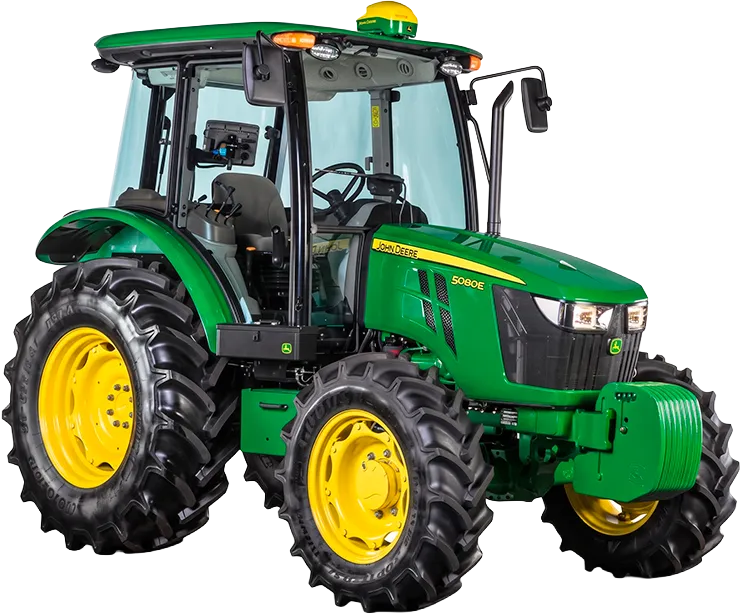
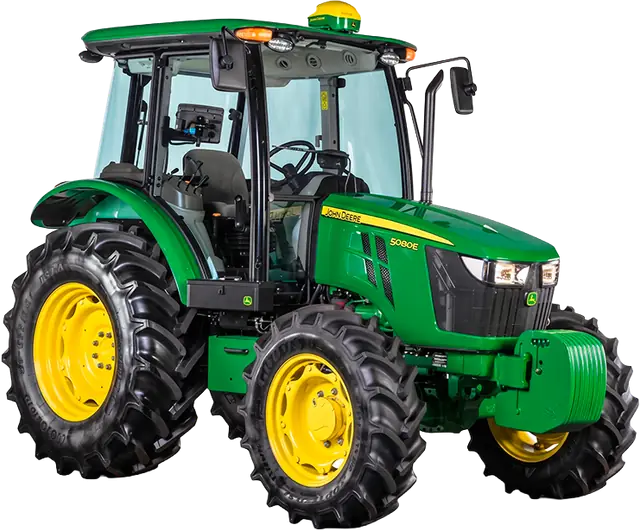
perf(landing-do-circuito): imagens menores, com srcset por tamanho de tela
As fotos dos palestrantes saem em duas alturas (500 e 900 px, antes 1400)
e o rosto esmaecido usa sempre a pequena. O trator cai para 640 px e o
pasto da abertura ganha versões próprias de 800 e 1400 px, mais leves que
as da landing dos 45 anos. A página baixa ~395 KB de imagem, contra
~800-950 KB antes.

diff --git a/lib/palestras/conteudo-da-landing.ts b/lib/palestras/conteudo-da-landing.ts
@@ -7,13 +7,19 @@
    ficam aqui: vêm do banco, por `listarPalestrasAtivas()`.
    ========================================================= */
 
+export type VersaoDaImagem = { src: string; largura: number; altura: number };
+
 export type Palestrante = {
   id: string;
   nome: string;
   sobrenome: string;
   credenciais: string[];
   tema: string;
-  foto: { src: string; largura: number; altura: number; alt: string };
+  /**
+   * Duas alturas, geradas por `scripts/otimizar-imagens-da-landing.mjs`:
+   * a pequena serve o celular e o rosto esmaecido; a grande, o desktop.
+   */
+  foto: { alt: string; pequena: VersaoDaImagem; grande: VersaoDaImagem };
 };
 
 export const PALESTRANTES: Palestrante[] = [
@@ -24,10 +30,9 @@ export const PALESTRANTES: Palestrante[] = [
     credenciais: ['Zootecnista', 'TRI Comunicação'],
     tema: 'Desafios do Agro Moderno: você está preparado?',
     foto: {
-      src: '/assets/img/palestrantes/ricardo-arantes.webp',
-      largura: 1179,
-      altura: 1400,
       alt: 'Ricardo Arantes, de chapéu e camisa azul-marinho',
+      pequena: { src: '/assets/img/palestrantes/ricardo-arantes-500.webp', largura: 421, altura: 500 },
+      grande: { src: '/assets/img/palestrantes/ricardo-arantes-900.webp', largura: 758, altura: 900 },
     },
   },
   {
@@ -41,10 +46,9 @@ export const PALESTRANTES: Palestrante[] = [
     ],
     tema: 'Controle sanitário na reprodução: estratégias para otimizar a rentabilidade na cria',
     foto: {
-      src: '/assets/img/palestrantes/giovani-pastre.webp',
-      largura: 1387,
-      altura: 1400,
       alt: 'Giovani Pastre, de óculos e jaqueta escura',
+      pequena: { src: '/assets/img/palestrantes/giovani-pastre-500.webp', largura: 495, altura: 500 },
+      grande: { src: '/assets/img/palestrantes/giovani-pastre-900.webp', largura: 891, altura: 900 },
     },
   },
 ];
@@ -55,8 +59,8 @@ export const PROMOCAO = {
   premio: 'John Deere 5080E.',
   trator: {
     src: '/assets/img/trator-5080e.webp',
-    largura: 741,
-    altura: 614,
+    largura: 640,
+    altura: 530,
     alt: 'Trator John Deere 5080E, verde com rodas amarelas',
   },
   bordao: ['Acelere conhecimento.', 'Acelere resultados. Acelere no Campo.'],

diff --git a/components/palestras/landing/palestrantes.tsx b/components/palestras/landing/palestrantes.tsx
@@ -39,23 +39,31 @@ function LajeDoPalestrante({
     >
       <div className={cn(estilo.miolo, estilo.palestranteGrade)}>
         <div className={estilo.foto}>
-          {/* Mesma imagem, ampliada e esmaecida: decorativa (D3). */}
+          {/*
+            Mesma imagem, ampliada e esmaecida: decorativa (D3). Sempre a
+            versão pequena: a 45% de opacidade, a nitidez não aparece, e o
+            navegador reaproveita o download da foto do celular.
+          */}
           <img
             className={estilo.fantasma}
-            src={p.foto.src}
+            src={p.foto.pequena.src}
             alt=""
             aria-hidden="true"
-            width={p.foto.largura}
-            height={p.foto.altura}
+            width={p.foto.pequena.largura}
+            height={p.foto.pequena.altura}
             loading="lazy"
             decoding="async"
           />
           <img
             className={estilo.recorte}
-            src={p.foto.src}
+            src={p.foto.grande.src}
+            srcSet={`${p.foto.pequena.src} ${p.foto.pequena.largura}w, ${p.foto.grande.src} ${p.foto.grande.largura}w`}
+            // Celular: 420 px de altura. Desktop: ~690 px de altura. A
+            // largura vem da proporção de cada foto.
+            sizes={`(min-width: 900px) ${Math.round((690 * p.foto.grande.largura) / p.foto.grande.altura)}px, ${Math.round((420 * p.foto.grande.largura) / p.foto.grande.altura)}px`}
             alt={p.foto.alt}
-            width={p.foto.largura}
-            height={p.foto.altura}
+            width={p.foto.grande.largura}
+            height={p.foto.grande.altura}
             loading="lazy"
             decoding="async"
           />

diff --git a/components/palestras/landing/abertura.tsx b/components/palestras/landing/abertura.tsx
@@ -14,12 +14,12 @@ export function Abertura({ cidades }: { cidades: number }) {
     <header className={estilo.abertura}>
       <div className={estilo.pasto} aria-hidden="true">
         <img
-          src="/assets/img/pasto-1600.webp"
-          srcSet="/assets/img/pasto-900.webp 900w, /assets/img/pasto-1600.webp 1600w, /assets/img/pasto-2400.webp 2400w"
+          src="/assets/img/pasto-circuito-1400.webp"
+          srcSet="/assets/img/pasto-circuito-800.webp 800w, /assets/img/pasto-circuito-1400.webp 1400w"
           sizes="(min-width: 1260px) 980px, 78vw"
           alt=""
-          width={1600}
-          height={1067}
+          width={1400}
+          height={933}
           fetchPriority="high"
         />
       </div>

diff --git a/tests/landing-do-circuito.test.ts b/tests/landing-do-circuito.test.ts
@@ -23,7 +23,10 @@ describe('landing do circuito', () => {
   });
 
   it('as imagens citadas no conteúdo existem em public/', () => {
-    const imagens = [...PALESTRANTES.map((p) => p.foto.src), PROMOCAO.trator.src];
+    const imagens = [
+      ...PALESTRANTES.flatMap((p) => [p.foto.pequena.src, p.foto.grande.src]),
+      PROMOCAO.trator.src,
+    ];
     for (const src of imagens) {
       assert.ok(fs.existsSync(path.join(RAIZ, 'public', src)), `falta ${src}`);
     }
